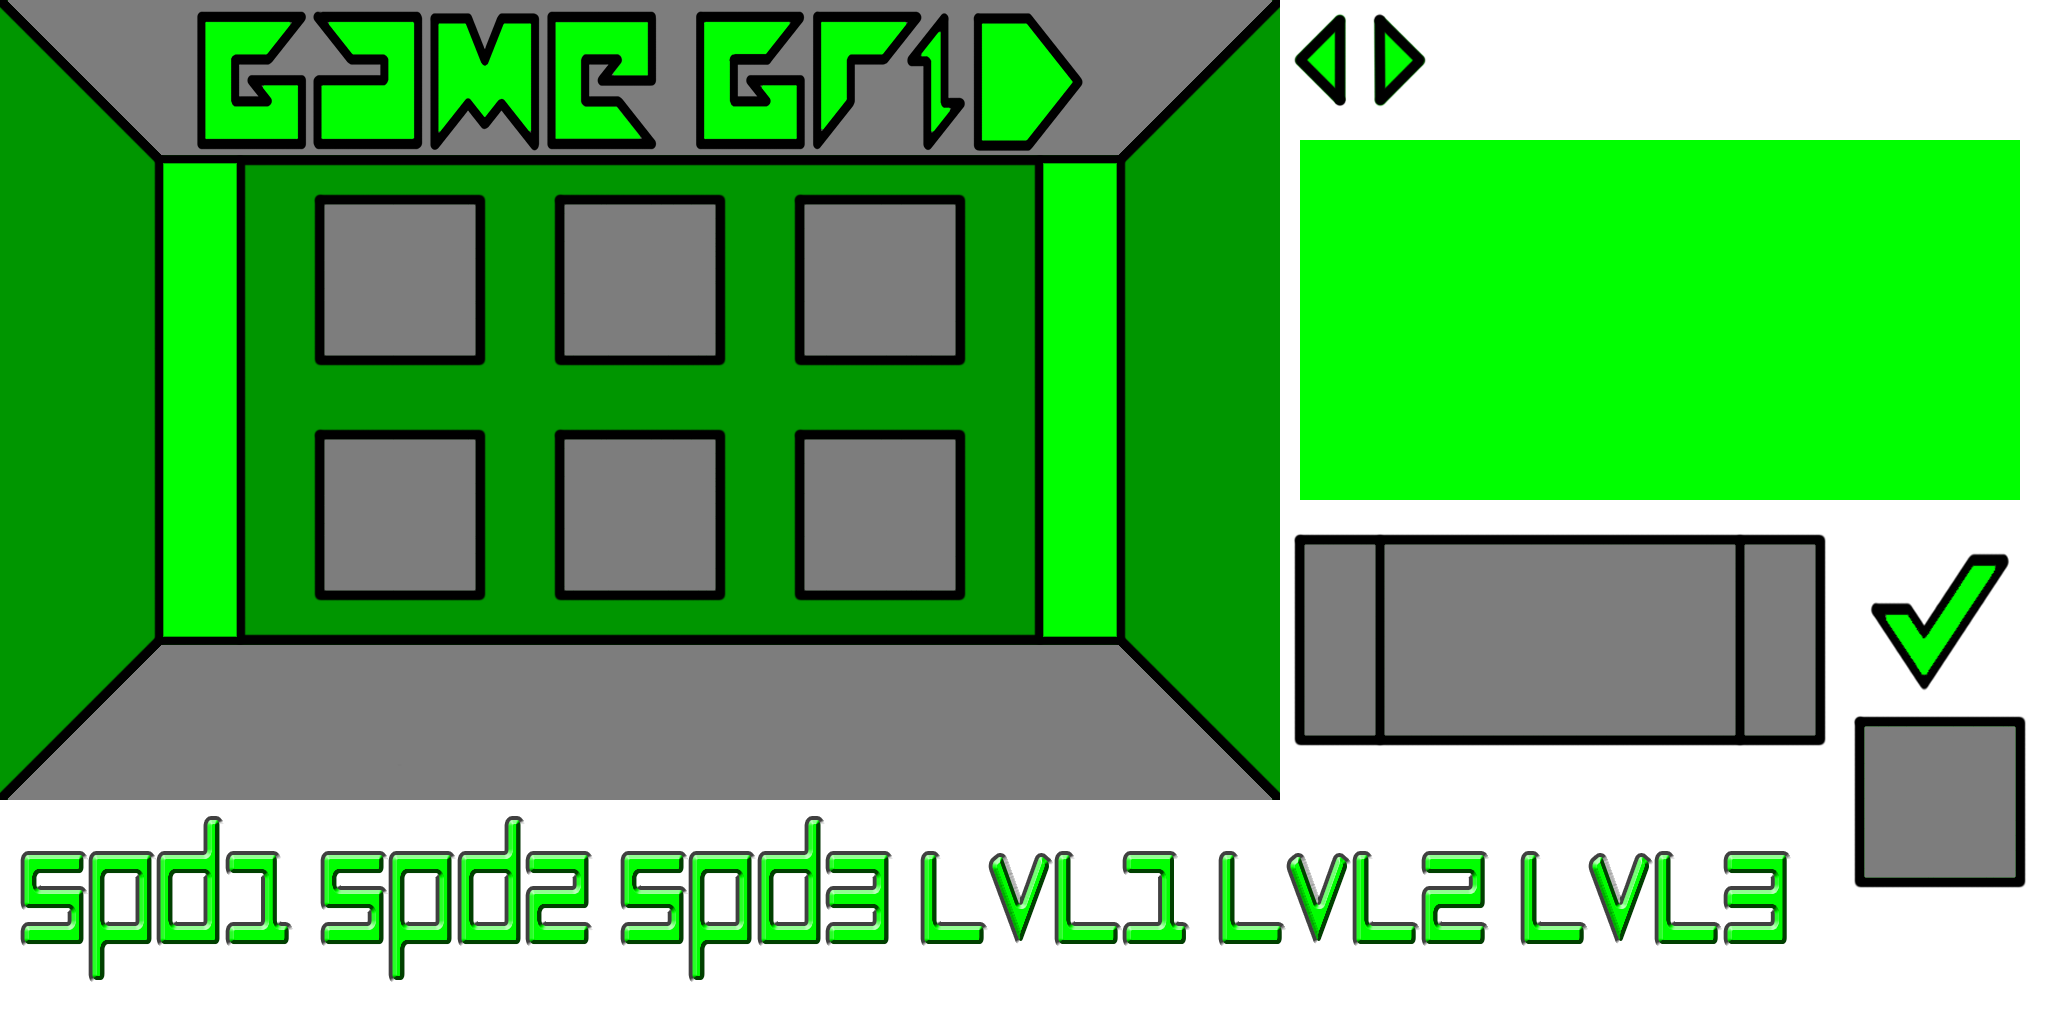
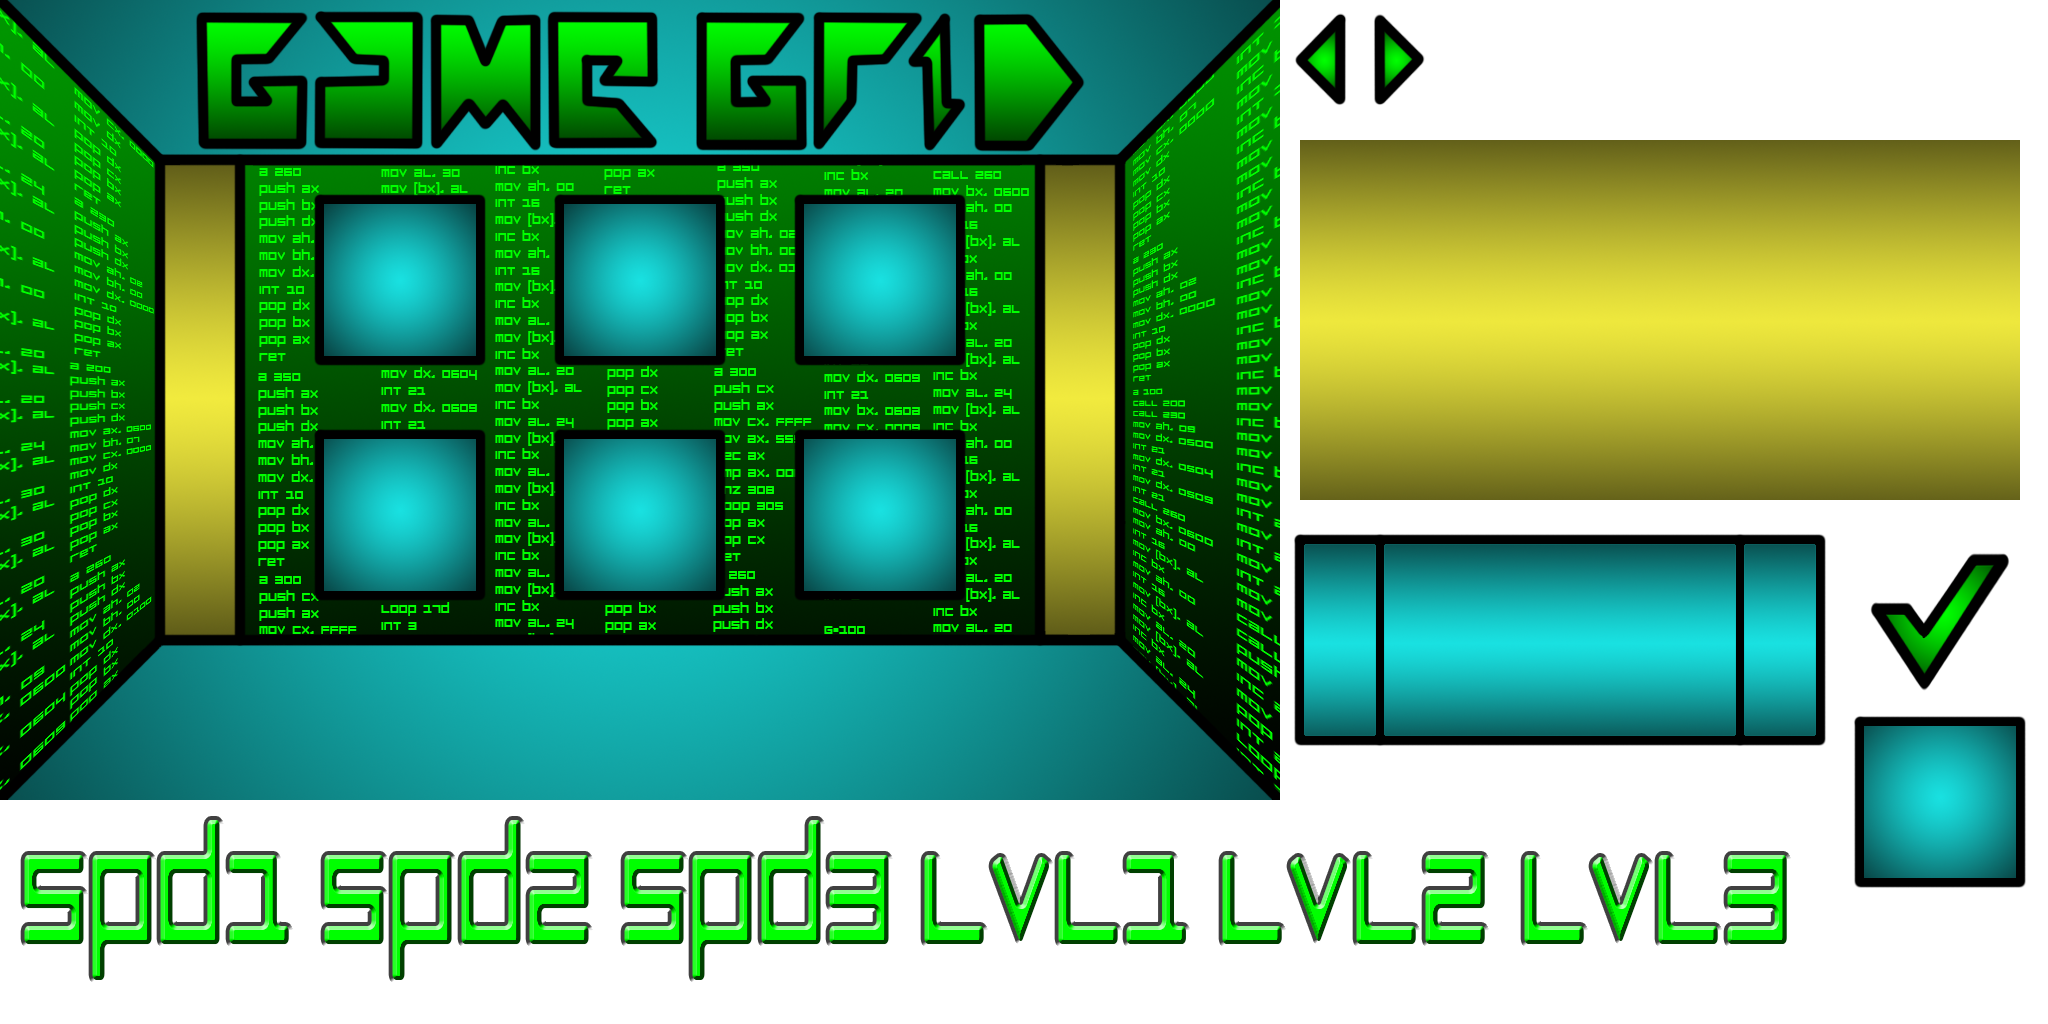
Updated backarrow.png, gamegrid.png, pausetoggle.png, volumetoggle.png and changed the code in PlayMenu so the new asset's menu selections are accurately reflected.

diff --git a/vergegl/src/com/dbz/verge/menus/PlayMenu.java b/vergegl/src/com/dbz/verge/menus/PlayMenu.java
@@ -18,9 +18,9 @@ public class PlayMenu extends Menu {
 	// --------------
     
     // Bounding Boxes.
-    private Rectangle gameGridBounds = new Rectangle(350, 510, 580, 100);
-    private Rectangle survivalBounds = new Rectangle(350, 350, 580, 100);
-    private Rectangle timeAttackBounds = new Rectangle(350, 190, 580, 100);
+    private Rectangle survivalBounds = new Rectangle(350, 510, 580, 100);
+    private Rectangle timeAttackBounds = new Rectangle(350, 350, 580, 100);
+    private Rectangle gameGridBounds = new Rectangle(350, 190, 580, 100);
     private Rectangle backArrowBounds = new Rectangle(5, 5, 140, 140);
 
     // -------------------
@@ -54,14 +54,7 @@ public class PlayMenu extends Menu {
                 // Sends the vector to the OpenGL Camera for handling.
                 guiCam.touchToWorld(touchPoint);
                 
-                // Game Grid Button Bounds Check.
-                if(OverlapTester.pointInRectangle(gameGridBounds, touchPoint)) {
-                    Assets.playSound(Assets.clickSound);
-                    game.setScreen(new GameGridMenu(game));
-                    return;
-                }
-                
-                // Survival Button Bounds Check.
+                // Survival Button Bounds Check.   
                 if(OverlapTester.pointInRectangle(survivalBounds, touchPoint)) {
                     Assets.playSound(Assets.clickSound);
                     game.setScreen(new SurvivalMode(game));
@@ -72,6 +65,13 @@ public class PlayMenu extends Menu {
                 if(OverlapTester.pointInRectangle(timeAttackBounds, touchPoint)) {
                     Assets.playSound(Assets.clickSound);
                     game.setScreen(new TimeAttackMode(game));
+                    return;
+                }
+                
+                // Game Grid Button Bounds Check.
+                if(OverlapTester.pointInRectangle(gameGridBounds, touchPoint)) {
+                    Assets.playSound(Assets.clickSound);
+                    game.setScreen(new GameGridMenu(game));
                     return;
                 }
                 
@@ -114,9 +114,9 @@ public class PlayMenu extends Menu {
     
     public void drawBounds() {
       batcher.beginBatch(Assets.boundOverlay);     
+      batcher.drawSprite(survivalBounds, Assets.boundOverlayRegion); 	// Survival Button Bounding Box
+      batcher.drawSprite(timeAttackBounds, Assets.boundOverlayRegion);  // Time Attack Bounding Box
       batcher.drawSprite(gameGridBounds, Assets.boundOverlayRegion); 	// Game Grid Button Bounding Box
-      batcher.drawSprite(survivalBounds, Assets.boundOverlayRegion);  	// Survival Button Bounding Box
-      batcher.drawSprite(timeAttackBounds, Assets.boundOverlayRegion); 	// Time Attack Bounding Box
       batcher.drawSprite(backArrowBounds, Assets.boundOverlayRegion); 	// Back Arrow Bounding Box
       super.drawBounds();
       batcher.endBatch();
